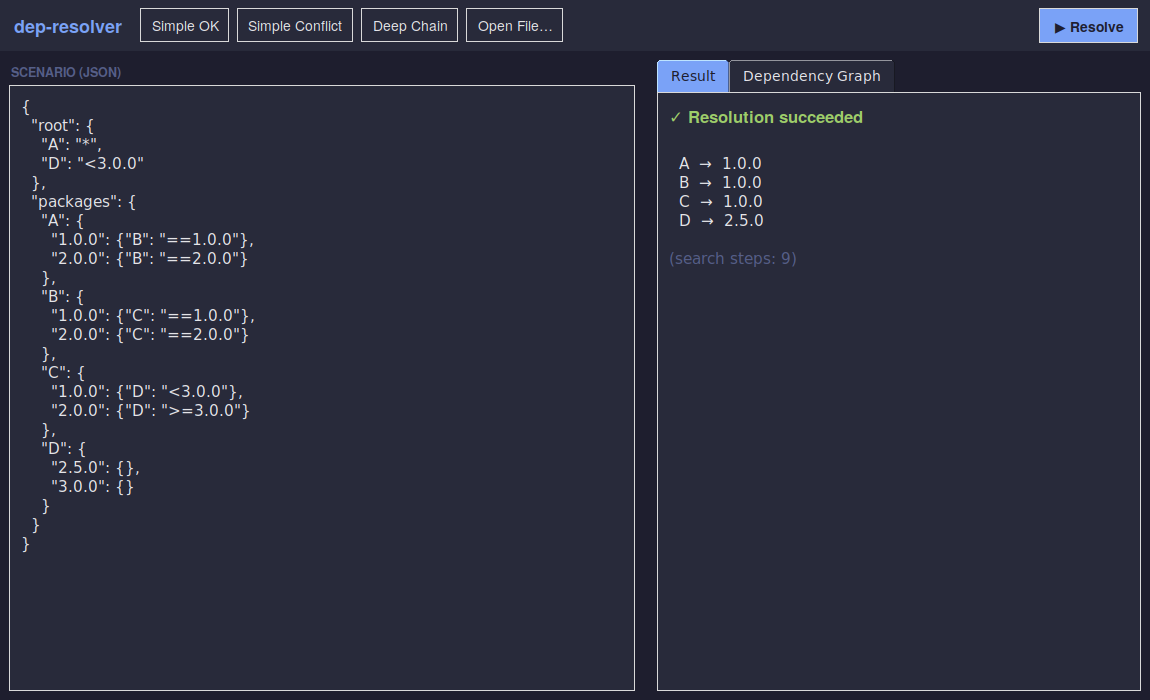
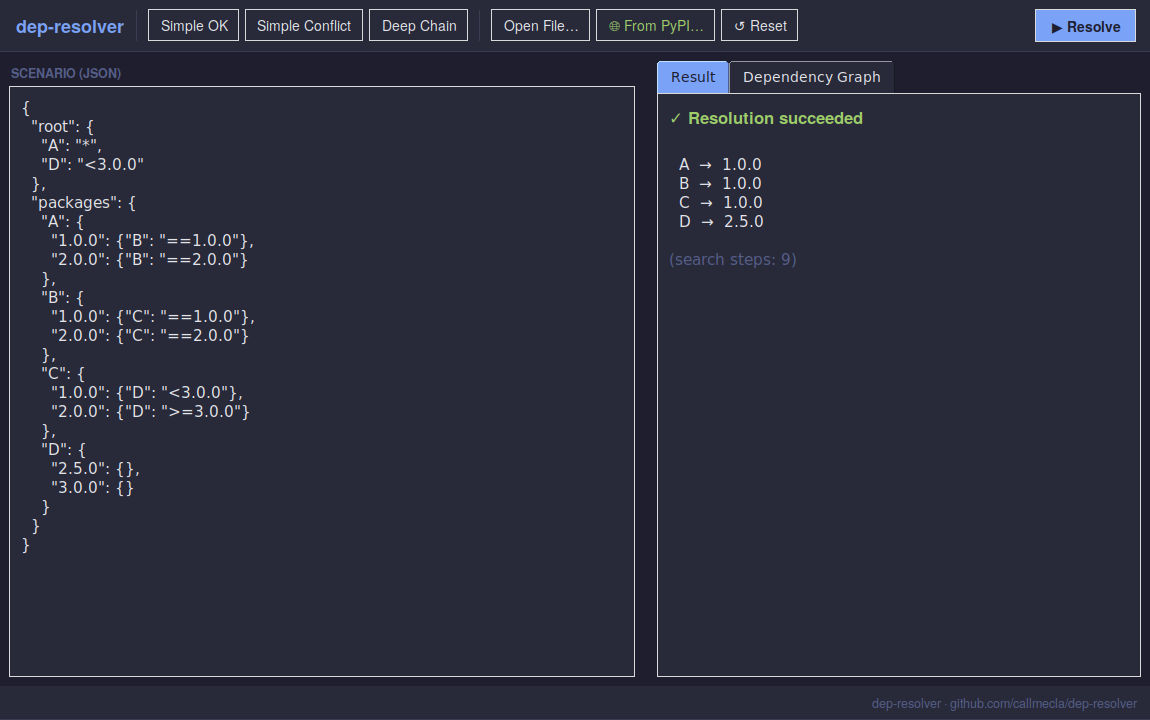
Polish GUI: Reset button, footer credit, button hover states, visual grouping

diff --git a/gui/app.py b/gui/app.py
@@ -27,57 +27,91 @@ EXAMPLES_DIR = os.path.join(os.path.dirname(__file__), "..", "examples")
 
 BG = "#1e1e2e"
 PANEL = "#282a3a"
+PANEL_HOVER = "#33364a"
 FG = "#e4e4e8"
 ACCENT = "#7aa2f7"
+ACCENT_HOVER = "#5b84d6"
 OK = "#9ece6a"
 BAD = "#f7768e"
 MUTED = "#565f89"
+BORDER = "#3a3d52"
+
+REPO_URL = "https://github.com/callmecla/dep-resolver"
+
+
+def _styled_button(parent, text, command, bg=PANEL, hover_bg=PANEL_HOVER, fg=FG,
+                    font=("Helvetica", 10), bold=False, padx=10):
+    """A flat button with real mouse-over feedback (plain tk.Button doesn't
+    show hover state with relief='flat' + custom colors by default)."""
+    btn = tk.Button(
+        parent, text=text, command=command, bg=bg, fg=fg,
+        activebackground=hover_bg, activeforeground=fg, relief="flat",
+        font=(font[0], font[1], "bold") if bold else font,
+        padx=padx, pady=4, cursor="hand2", borderwidth=0,
+    )
+    btn.bind("<Enter>", lambda e: btn.configure(bg=hover_bg))
+    btn.bind("<Leave>", lambda e: btn.configure(bg=bg))
+    return btn
 
 
 class ResolverApp(tk.Tk):
     def __init__(self):
         super().__init__()
         self.title("dep-resolver — dependency version resolver")
-        self.geometry("1150x700")
+        self.geometry("1150x720")
         self.configure(bg=BG)
+        self._last_loaded_text = ""
 
         self._build_toolbar()
         self._build_body()
+        self._build_footer()
 
         self._load_json_text(self._default_scenario())
 
     # ---------- UI construction ----------
 
     def _build_toolbar(self):
-        bar = tk.Frame(self, bg=PANEL, height=48)
+        bar = tk.Frame(self, bg=PANEL, height=52)
         bar.pack(side="top", fill="x")
 
         tk.Label(bar, text="dep-resolver", bg=PANEL, fg=ACCENT,
-                 font=("Helvetica", 13, "bold")).pack(side="left", padx=12, pady=8)
+                 font=("Helvetica", 13, "bold")).pack(side="left", padx=(14, 10), pady=10)
+
+        tk.Frame(bar, bg=BORDER, width=1).pack(side="left", fill="y", pady=10, padx=(0, 8))
 
         for label, fname in [
             ("Simple OK", "simple_ok.json"),
             ("Simple Conflict", "simple_conflict.json"),
             ("Deep Chain", "deep_chain_backtrack.json"),
         ]:
-            b = tk.Button(bar, text=label, command=lambda f=fname: self._load_example(f),
-                           bg=PANEL, fg=FG, activebackground=MUTED, relief="flat",
-                           font=("Helvetica", 10), padx=8)
-            b.pack(side="left", padx=4, pady=8)
+            _styled_button(bar, label, lambda f=fname: self._load_example(f)
+                            ).pack(side="left", padx=3, pady=9)
 
-        tk.Button(bar, text="Open File…", command=self._open_file,
-                  bg=PANEL, fg=FG, activebackground=MUTED, relief="flat",
-                  font=("Helvetica", 10), padx=8).pack(side="left", padx=4, pady=8)
+        tk.Frame(bar, bg=BORDER, width=1).pack(side="left", fill="y", pady=10, padx=8)
 
-        tk.Button(bar, text="🌐 From PyPI…", command=self._open_pypi_dialog,
-                  bg=PANEL, fg=OK, activebackground=MUTED, relief="flat",
-                  font=("Helvetica", 10), padx=8).pack(side="left", padx=4, pady=8)
+        _styled_button(bar, "Open File…", self._open_file).pack(side="left", padx=3, pady=9)
+        _styled_button(bar, "🌐 From PyPI…", self._open_pypi_dialog, fg=OK
+                        ).pack(side="left", padx=3, pady=9)
+        _styled_button(bar, "↺ Reset", self._on_reset).pack(side="left", padx=3, pady=9)
 
-        tk.Button(bar, text="▶ Resolve", command=self._on_resolve,
-                  bg=ACCENT, fg="#1e1e2e", activebackground="#5b84d6", relief="flat",
-                  font=("Helvetica", 10, "bold"), padx=12).pack(side="right", padx=12, pady=8)
+        _styled_button(bar, "▶ Resolve", self._on_resolve, bg=ACCENT, hover_bg=ACCENT_HOVER,
+                        fg="#1e1e2e", bold=True, padx=14).pack(side="right", padx=14, pady=9)
+
+    def _build_footer(self):
+        tk.Frame(self, bg=BORDER, height=1).pack(side="bottom", fill="x")
+        footer = tk.Frame(self, bg=PANEL)
+        footer.pack(side="bottom", fill="x")
+
+        self.status_var = tk.StringVar(value="")
+        tk.Label(footer, textvariable=self.status_var, bg=PANEL, fg=MUTED,
+                 anchor="w", font=("Helvetica", 9), padx=12, pady=6).pack(side="left")
+
+        tk.Label(footer, text=f"dep-resolver · {REPO_URL.replace('https://', '')}",
+                 bg=PANEL, fg=MUTED, anchor="e", font=("Helvetica", 9), padx=12, pady=6
+                 ).pack(side="right")
 
     def _build_body(self):
+        tk.Frame(self, bg=BORDER, height=1).pack(side="top", fill="x")
         body = tk.PanedWindow(self, orient="horizontal", bg=BG, sashwidth=6,
                                sashrelief="flat")
         body.pack(fill="both", expand=True)
@@ -129,21 +163,25 @@ class ResolverApp(tk.Tk):
 
         body.add(right, minsize=500)
 
-        # Status bar (used for PyPI fetch progress)
-        self.status_var = tk.StringVar(value="")
-        status_bar = tk.Label(self, textvariable=self.status_var, bg=PANEL, fg=MUTED,
-                               anchor="w", font=("Helvetica", 9), padx=10, pady=4)
-        status_bar.pack(side="bottom", fill="x")
-
     # ---------- data loading ----------
 
     def _default_scenario(self):
         with open(os.path.join(EXAMPLES_DIR, "simple_ok.json")) as f:
             return f.read()
 
-    def _load_json_text(self, text):
+    def _load_json_text(self, text, remember=True):
         self.json_text.delete("1.0", "end")
         self.json_text.insert("1.0", text)
+        if remember:
+            self._last_loaded_text = text
+
+    def _on_reset(self):
+        """Restore whatever was last officially loaded (a bundled example,
+        an opened file, or the PyPI-derived scenario) — undoes accidental
+        edits or an emptied textbox without needing to re-find the right
+        example button."""
+        self._load_json_text(self._last_loaded_text, remember=False)
+        self.status_var.set("Scenario restored.")
 
     def _load_example(self, filename):
         path = os.path.join(EXAMPLES_DIR, filename)
@@ -228,11 +266,10 @@ class ResolverApp(tk.Tk):
                 max_packages_var.get(),
             )
 
-        tk.Button(btn_frame, text="Cancel", command=dialog.destroy,
-                  bg=PANEL, fg=FG, relief="flat", padx=10).pack(side="right", padx=(6, 0))
-        tk.Button(btn_frame, text="Fetch & Resolve", command=on_fetch,
-                  bg=ACCENT, fg="#1e1e2e", relief="flat", font=("Helvetica", 10, "bold"),
-                  padx=10).pack(side="right")
+        _styled_button(btn_frame, "Cancel", dialog.destroy, bg=PANEL, hover_bg=PANEL_HOVER
+                        ).pack(side="right", padx=(6, 0))
+        _styled_button(btn_frame, "Fetch & Resolve", on_fetch, bg=ACCENT, hover_bg=ACCENT_HOVER,
+                        fg="#1e1e2e", bold=True).pack(side="right")
 
     def _resolve_from_pypi(self, root_packages, max_versions, max_depth, max_packages):
         self._clear_outputs()
